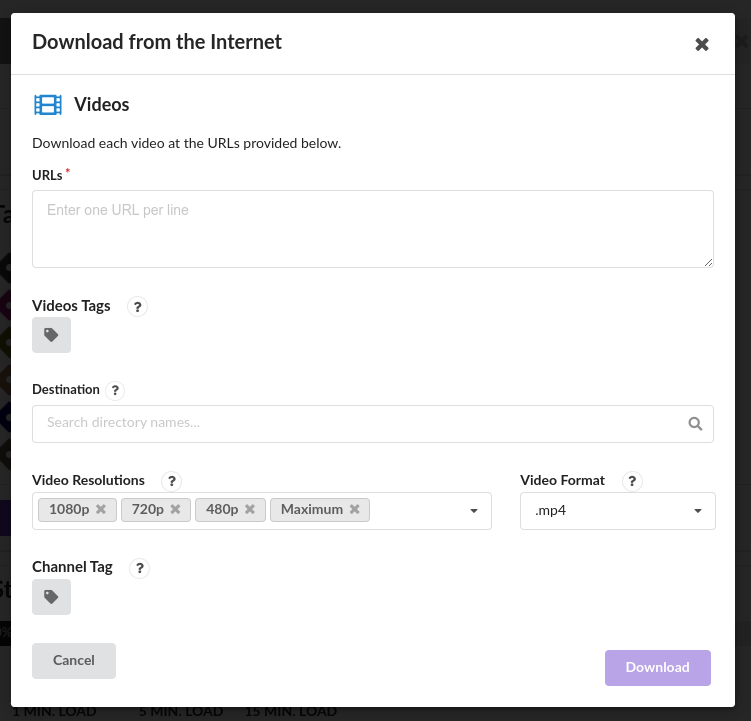
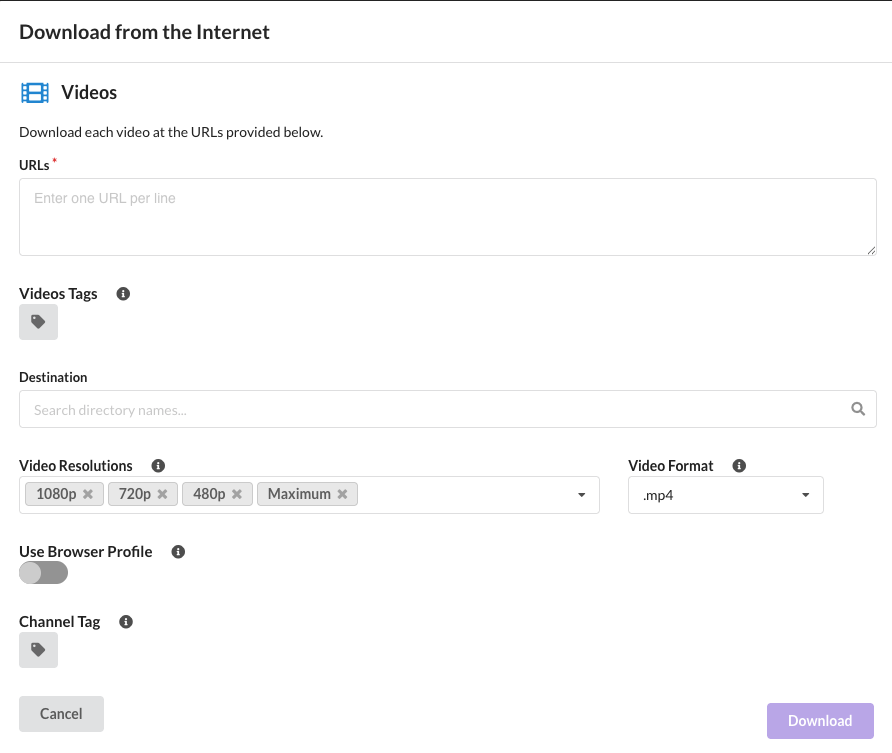
Adding cookies docs.

Changed region(s): [[0.0, 0.0, 1.0, 1.0], [0.7044, 0.6103, 0.8575, 0.7323]]

diff --git a/docs/modules/videos/index.md b/docs/modules/videos/index.md
@@ -37,9 +37,60 @@ video from the WROLPi channel, then your video will be stored in `videos/WROLPi`
     * The file format the video will be encapsulated in.
         * `mp4` is the most universally compatible (but proprietary).
         * `mkv` is an open-standard media format.
+* **Use Browser Profile**
+    * A browser profile is a set of cookies and settings that are used to download videos. This is useful for
+      downloading videos from sites that require authentication or have other restrictions.
+      See [Browser Profiles](#browser-profiles)
 * **Channel Tag**
     * The selected Tag will be applied to any new Channel created in the process of downloading these videos. The
       Channel will be placed in the respective tag directory in the `videos` directory.
+
+## Videos Settings
+
+Behavior when downloading videos can be configured in the `Videos > Settings` page.
+
+![Videos Settings Page](videos-settings.png)
+
+* **Video Resolutions**
+    * Used to configure the default video resolutions to download. This will be suggested to you when downloading
+      videos.
+* **Video File Format**
+    * Configure the name of the video file format (and related files). The default is
+      `%(uploader)s_%(upload_date)s_%(id)s_%(title)s.%(ext)s`, this is used so the video files sort themselves by
+      channel, then by date.
+* **Do not overwrite existing files**
+    * yt-dlp will not overwrite existing files. This is useful if you are downloading a video that has been partially
+      downloaded.
+* **Download Automatic Subtitles** and **Download subtitles**
+    * Download captions for the video, if available.
+* **Download Thumbnail**
+    * Download the thumbnail for the video, if available.
+* **Extra yt-dlp Arguments**
+    * The text here will be split by spaces and passed as extra arguments to yt-dlp.
+* **Browser Profile**
+    * Shows the browser profiles available to the `wrolpi` user. This is passed as the `--cookies-from-browser` argument
+      to yt-dlp.
+* **Always Use Browser Profile**
+    * Will download videos using `--cookies-from-browser` always. This is not recommended!
+
+## How to Use Browser Profiles
+
+Downloading videos that require authentication or have other restrictions can be done using a browser profile. This is
+done by logging in as the `wrolpi` user, and authenticating in the browser to the site you want to download from.
+
+### Steps to use a browser profile:
+
+1. Boot your Raspberry Pi.
+2. Log in as your user (possibly `pi`)
+3. Open the terminal, change the password of the wrolpi user:
+    * `sudo passwd wrolpi`
+4. Log out of your user using **Menu** > **Logout** > **Logout**
+5. Select the `wrolpi` user in the dropdown.
+6. Launch a browser (Chromium or Firefox) and log in to the site you want to download from.
+7. Navigate to your WROLPi app, you should see the browser profile you just created in `Videos > Settings`
+8. Select the browser profile you just created in `Videos > Settings` and click **Save**.
+
+You can now enable **Use Browser Profile** in the download modal.
 
 ## Download Channels/Playlists
 